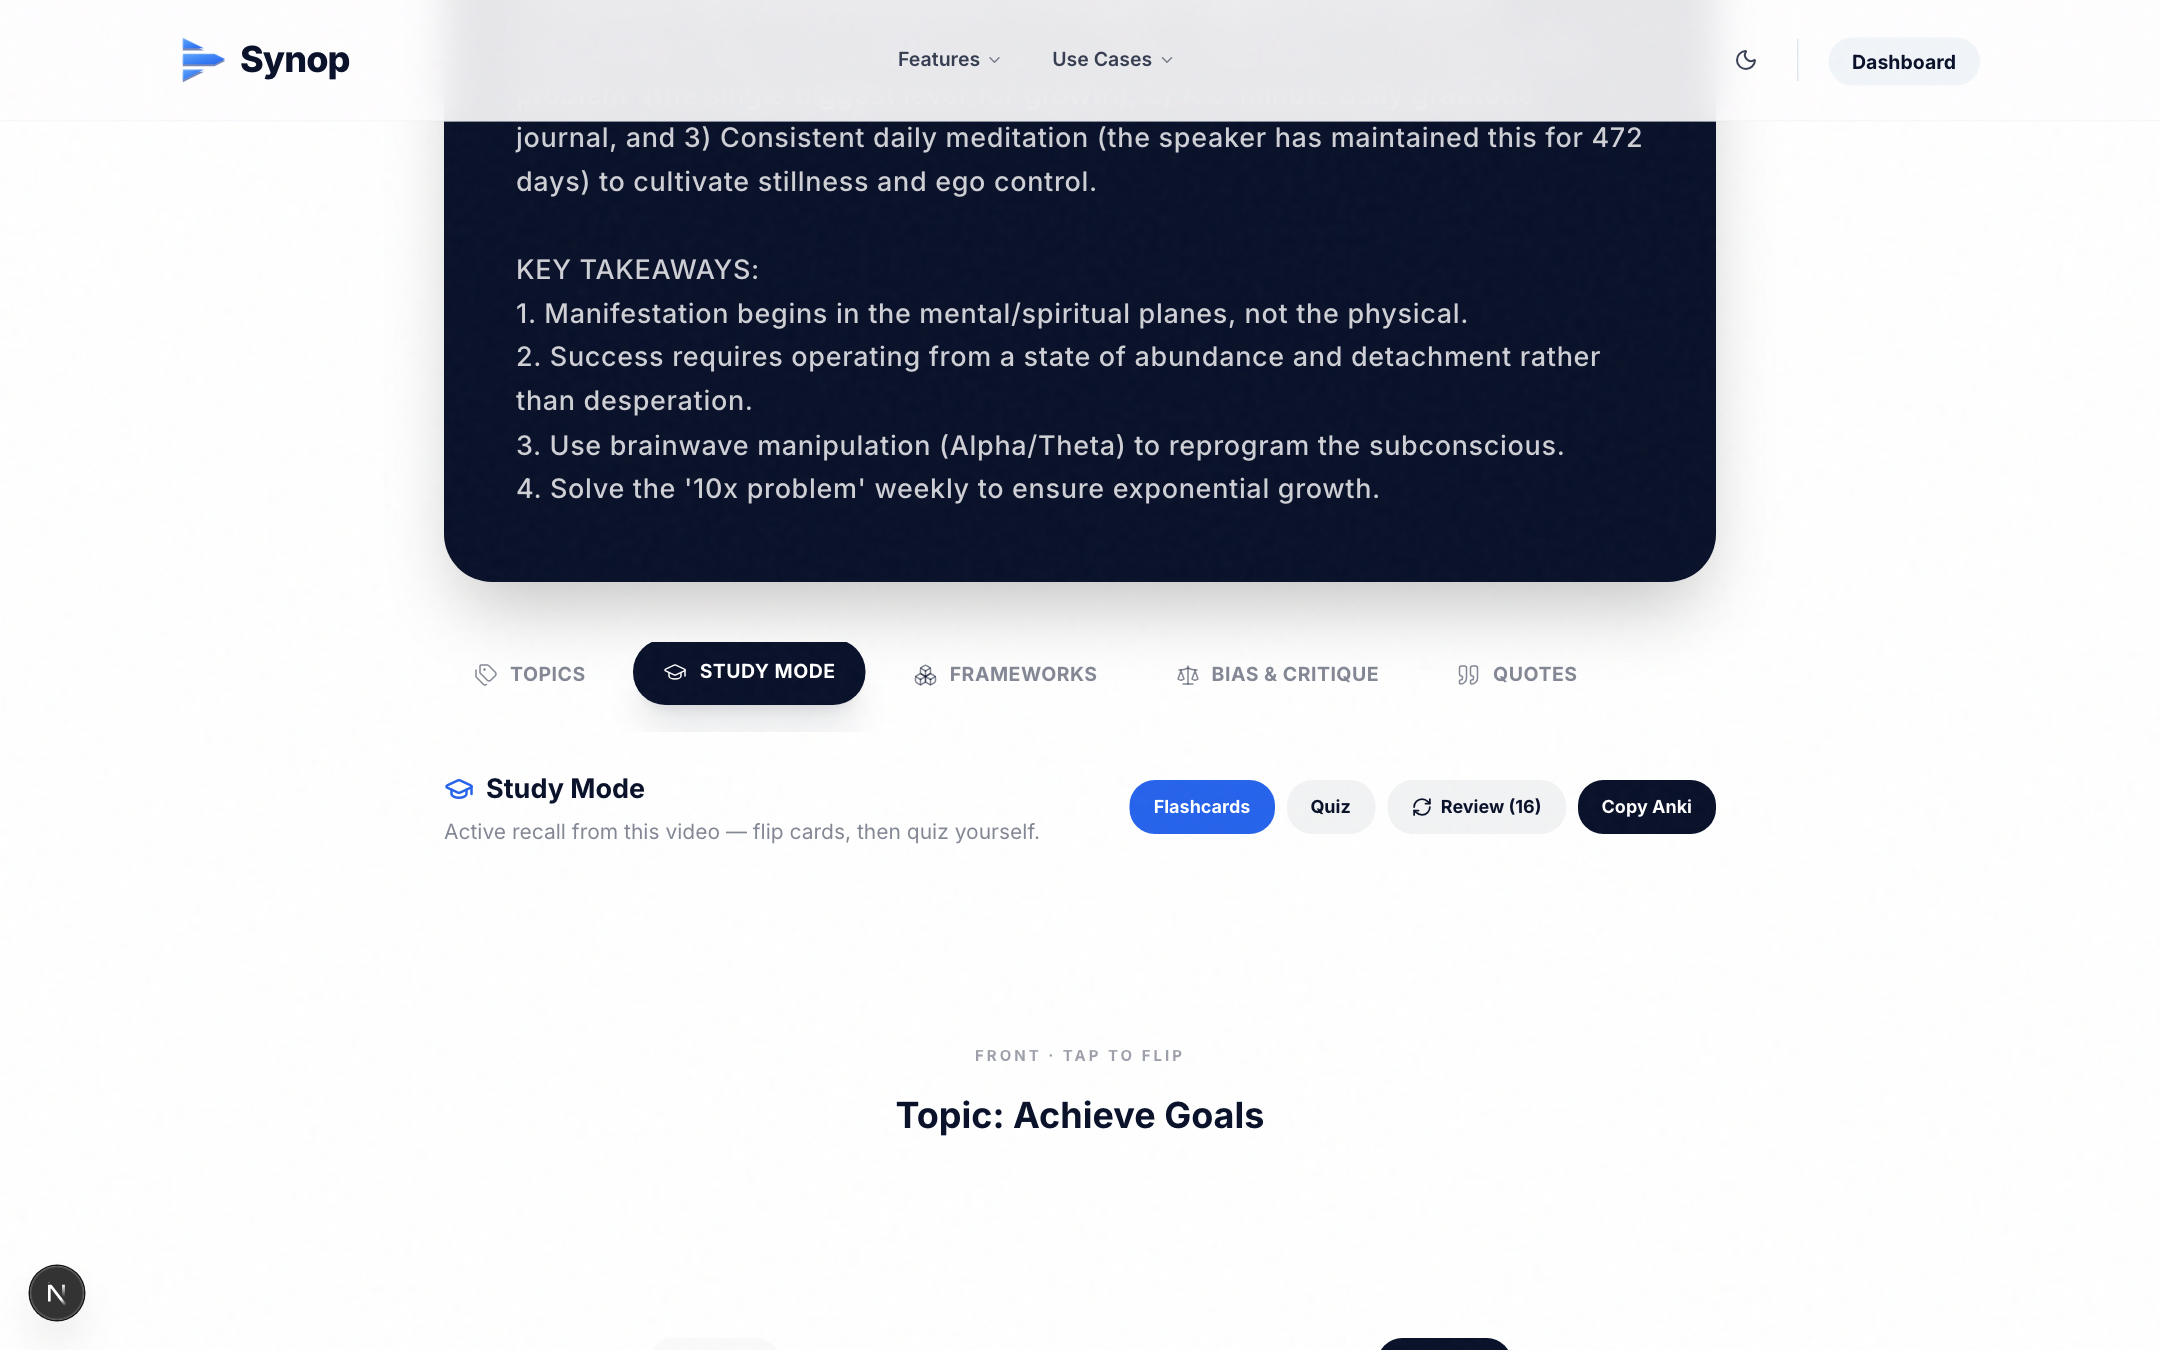
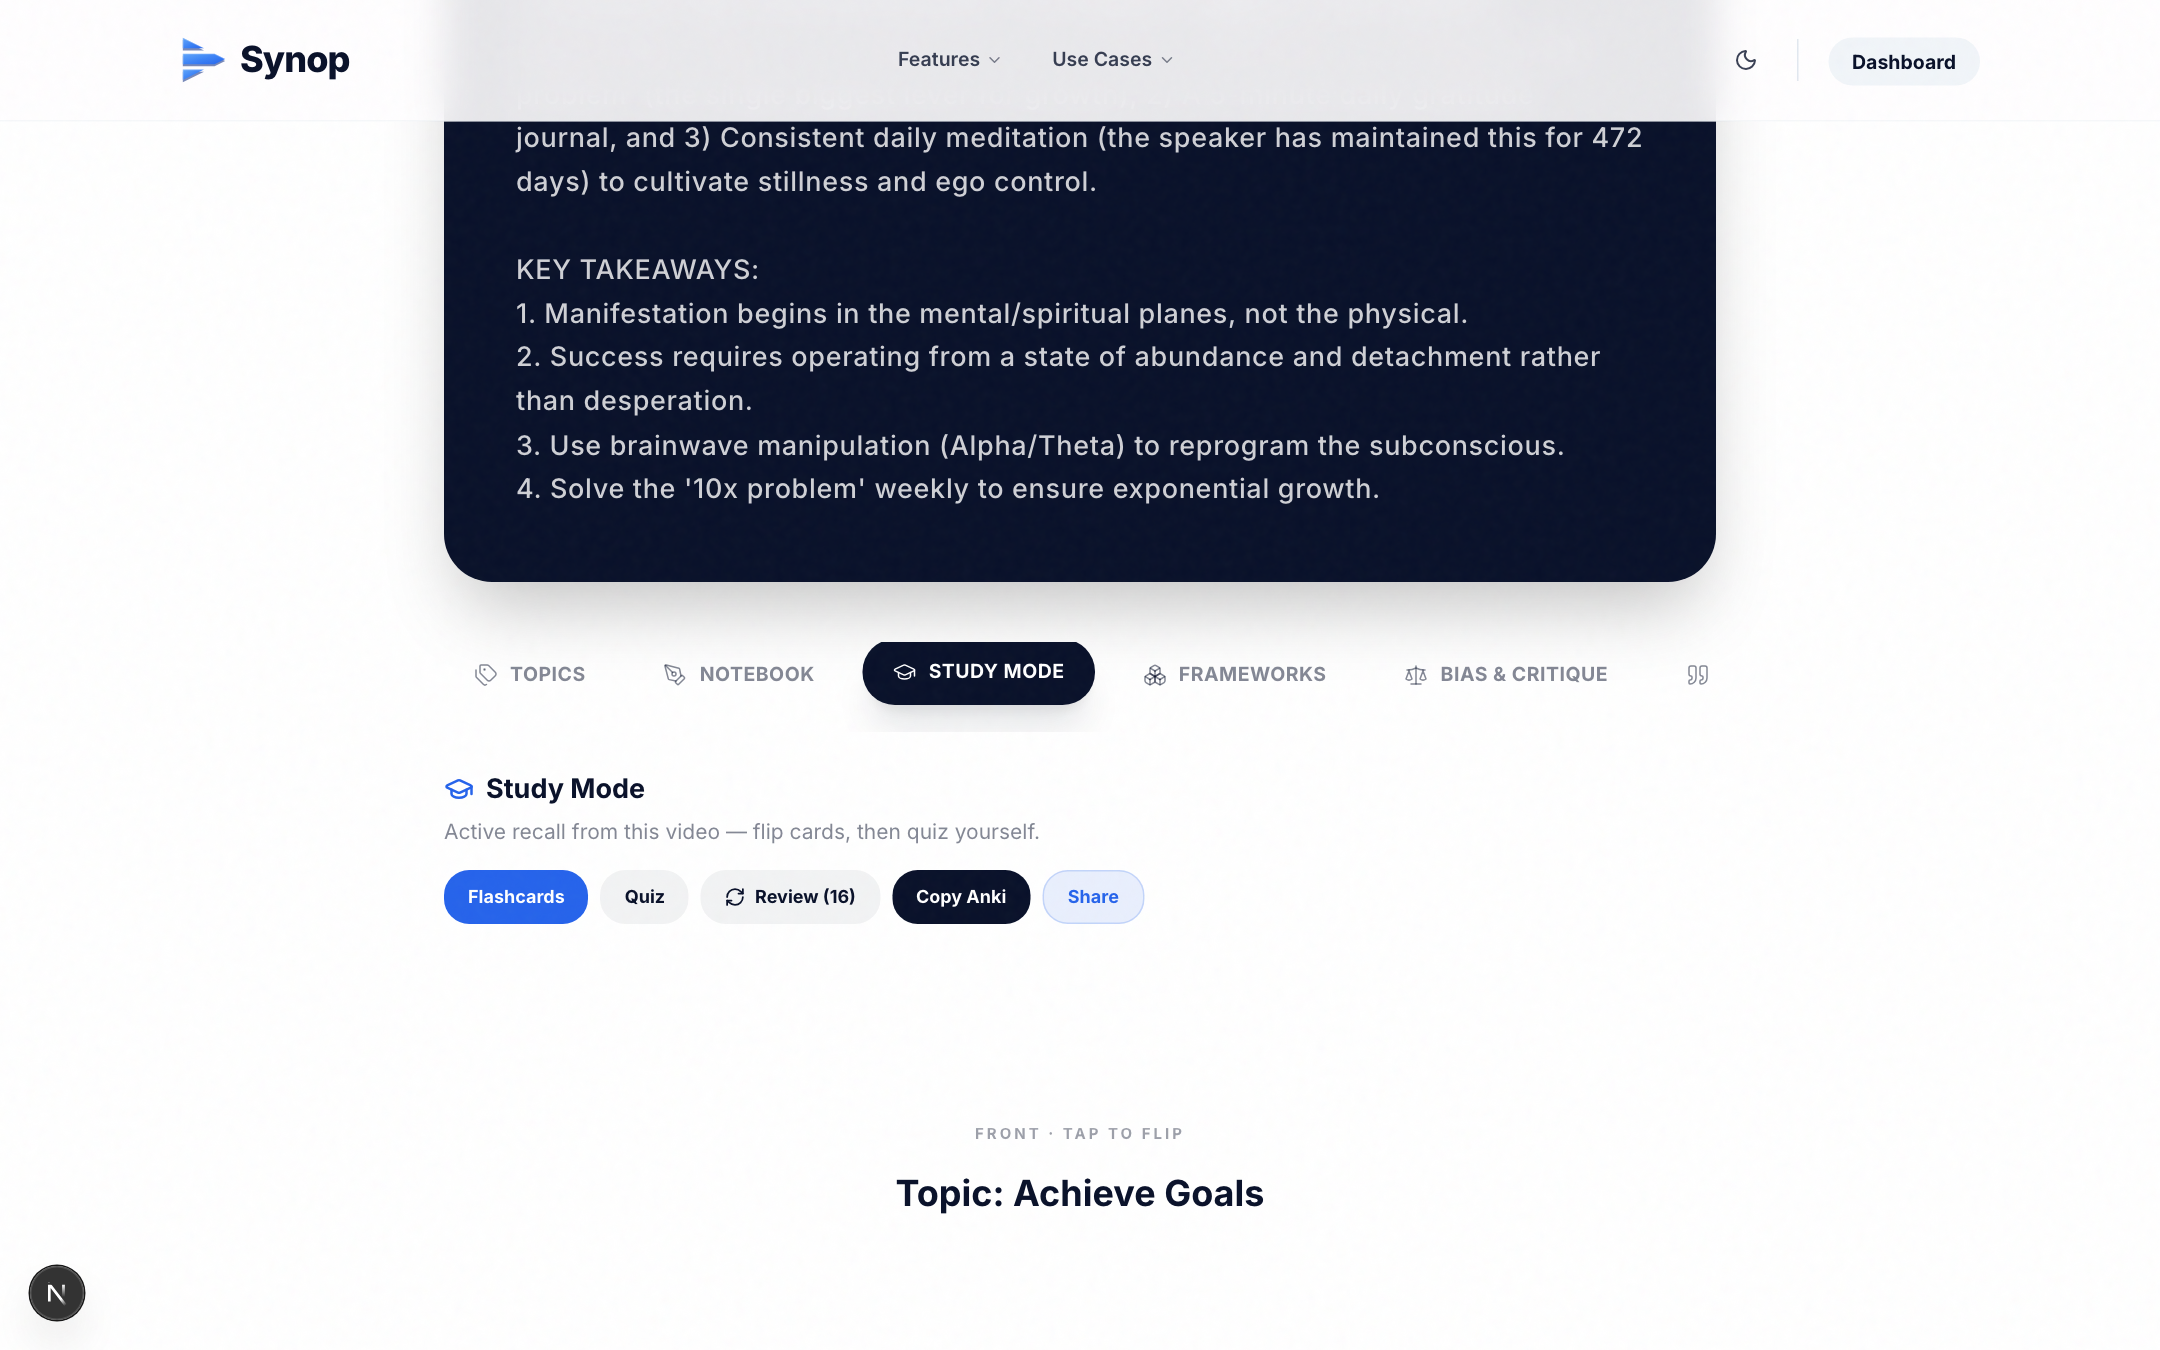
New screenshots: Notebook, Research Report, Course progress + refreshed gallery

diff --git a/scripts/screenshots.js b/scripts/screenshots.js
@@ -7,55 +7,84 @@ const OUT = 'public/screenshots';
 
 (async () => {
   const browser = await chromium.launch();
-  const page = await browser.newPage({ viewport: { width: 1440, height: 900 }, deviceScaleFactor: 1.5 });
-  // Seed a persona so the dashboard renders in "student mode".
-  await page.addInitScript(() => {
-    try {
-      localStorage.setItem('synop_persona', 'student');
-      localStorage.setItem('synop_language', 'English');
-    } catch {}
-  });
 
-  const shot = async (name) => {
-    await page.waitForTimeout(2200);
+  const ctx = async (persona) => {
+    const c = await browser.newContext({ viewport: { width: 1440, height: 900 }, deviceScaleFactor: 1.5 });
+    await c.addInitScript((p) => {
+      try { localStorage.setItem('synop_persona', p); localStorage.setItem('synop_language', 'English'); } catch {}
+    }, persona);
+    return c;
+  };
+
+  const shot = async (page, name) => {
+    await page.waitForTimeout(2000);
     await page.screenshot({ path: `${OUT}/${name}.png` });
     console.log('  saved', name);
   };
 
-  console.log('→ landing');
-  await page.goto(BASE + '/', { waitUntil: 'load' });
-  await shot('landing');
+  // ── Student context ────────────────────────────────────────────────
+  const s = await (await ctx('student')).newPage();
 
-  console.log('→ briefing (dashboard default)');
-  await page.goto(BASE + '/dashboard', { waitUntil: 'load' });
-  await page.waitForSelector('text=Your Briefing', { timeout: 15000 }).catch(() => {});
-  await shot('dashboard-briefing');
+  console.log('→ landing');
+  await s.goto(BASE + '/', { waitUntil: 'load' });
+  await shot(s, 'landing');
+
+  console.log('→ briefing (streak)');
+  await s.goto(BASE + '/dashboard', { waitUntil: 'load' });
+  await s.waitForSelector('text=Your Briefing', { timeout: 15000 }).catch(() => {});
+  await shot(s, 'dashboard-briefing');
 
   console.log('→ summaries');
-  await page.getByText('Summaries', { exact: true }).first().click({ timeout: 5000 }).catch(() => {});
-  await shot('dashboard-summaries');
+  await s.getByText('Summaries', { exact: true }).first().click({ timeout: 5000 }).catch(() => {});
+  await shot(s, 'dashboard-summaries');
 
   console.log('→ library');
-  await page.getByText('Library', { exact: true }).first().click({ timeout: 5000 }).catch(() => {});
-  await page.waitForTimeout(3000);
-  await shot('dashboard-library');
+  await s.getByText('Library', { exact: true }).first().click({ timeout: 5000 }).catch(() => {});
+  await s.waitForTimeout(3000);
+  await shot(s, 'dashboard-library');
 
   console.log('→ channels');
-  await page.getByText('Channels', { exact: true }).first().click({ timeout: 5000 }).catch(() => {});
-  await shot('dashboard-channels');
+  await s.getByText('Channels', { exact: true }).first().click({ timeout: 5000 }).catch(() => {});
+  await shot(s, 'dashboard-channels');
 
   console.log('→ settings');
-  await page.getByText('Settings', { exact: true }).first().click({ timeout: 5000 }).catch(() => {});
-  await shot('dashboard-settings');
+  await s.getByText('Settings', { exact: true }).first().click({ timeout: 5000 }).catch(() => {});
+  await shot(s, 'dashboard-settings');
 
   console.log('→ summary (topics)');
-  await page.goto(BASE + '/summary/okSKt_C_SE8', { waitUntil: 'load' });
-  await page.waitForTimeout(4500);
-  await shot('summary');
+  await s.goto(BASE + '/summary/okSKt_C_SE8', { waitUntil: 'load' });
+  await s.waitForTimeout(4500);
+  await shot(s, 'summary');
+
+  console.log('→ notebook');
+  await s.getByText('Notebook', { exact: true }).first().click({ timeout: 5000 }).catch(() => {});
+  await s.waitForTimeout(1000);
+  // Generate notes if the button is present.
+  const genNotes = s.getByText('Generate Notes', { exact: true });
+  if (await genNotes.count()) { await genNotes.first().click(); await s.waitForTimeout(45000); }
+  await shot(s, 'notebook');
 
   console.log('→ study mode');
-  await page.getByText('Study Mode', { exact: true }).first().click({ timeout: 5000 }).catch(() => {});
-  await shot('study-mode');
+  await s.getByText('Study Mode', { exact: true }).first().click({ timeout: 5000 }).catch(() => {});
+  await shot(s, 'study-mode');
+
+  // ── Researcher context ─────────────────────────────────────────────
+  const r = await (await ctx('researcher')).newPage();
+  console.log('→ research report');
+  await r.goto(BASE + '/summary/okSKt_C_SE8', { waitUntil: 'load' });
+  await r.waitForTimeout(4000);
+  await r.getByText('Research Report', { exact: true }).first().click({ timeout: 5000 }).catch(() => {});
+  await r.waitForTimeout(1000);
+  const genReport = r.getByText('Generate Research Report', { exact: true });
+  if (await genReport.count()) { await genReport.first().click(); await r.waitForTimeout(50000); }
+  await shot(r, 'research-report');
+
+  // ── Course tracker (playlist) ──────────────────────────────────────
+  const p = await (await ctx('student')).newPage();
+  console.log('→ course tracker');
+  await p.goto(BASE + '/playlist/PL8dPuuaLjXtOAKed_MxxWBNaPno5h3Zs8', { waitUntil: 'load' });
+  await p.waitForTimeout(6000);
+  await shot(p, 'course-tracker');
 
   await browser.close();
   console.log('done');

diff --git a/README.md b/README.md
@@ -53,8 +53,12 @@ And because it's built for reliability: **every feature works even when AI provi
 | <img src="https://raw.githubusercontent.com/sharadvc/synop/main/public/screenshots/dashboard-summaries.png" width="100%" /> | <img src="https://raw.githubusercontent.com/sharadvc/synop/main/public/screenshots/dashboard-library.png" width="100%" /> |
 | **Channel watchlist** | **Settings — BYOK & custom providers** |
 | <img src="https://raw.githubusercontent.com/sharadvc/synop/main/public/screenshots/dashboard-channels.png" width="100%" /> | <img src="https://raw.githubusercontent.com/sharadvc/synop/main/public/screenshots/dashboard-settings.png" width="100%" /> |
-| **Video analysis (Topics)** | **Study Mode (flashcards)** |
-| <img src="https://raw.githubusercontent.com/sharadvc/synop/main/public/screenshots/summary.png" width="100%" /> | <img src="https://raw.githubusercontent.com/sharadvc/synop/main/public/screenshots/study-mode.png" width="100%" /> |
+| **Video analysis (Topics)** | **Notebook — handwritten study notes** |
+| <img src="https://raw.githubusercontent.com/sharadvc/synop/main/public/screenshots/summary.png" width="100%" /> | <img src="https://raw.githubusercontent.com/sharadvc/synop/main/public/screenshots/notebook.png" width="100%" /> |
+| **Study Mode (flashcards + review)** | **Research Report (researchers)** |
+| <img src="https://raw.githubusercontent.com/sharadvc/synop/main/public/screenshots/study-mode.png" width="100%" /> | <img src="https://raw.githubusercontent.com/sharadvc/synop/main/public/screenshots/research-report.png" width="100%" /> |
+| **Course progress (playlists)** | |
+| <img src="https://raw.githubusercontent.com/sharadvc/synop/main/public/screenshots/course-tracker.png" width="100%" /> | |
 
 ---
 
